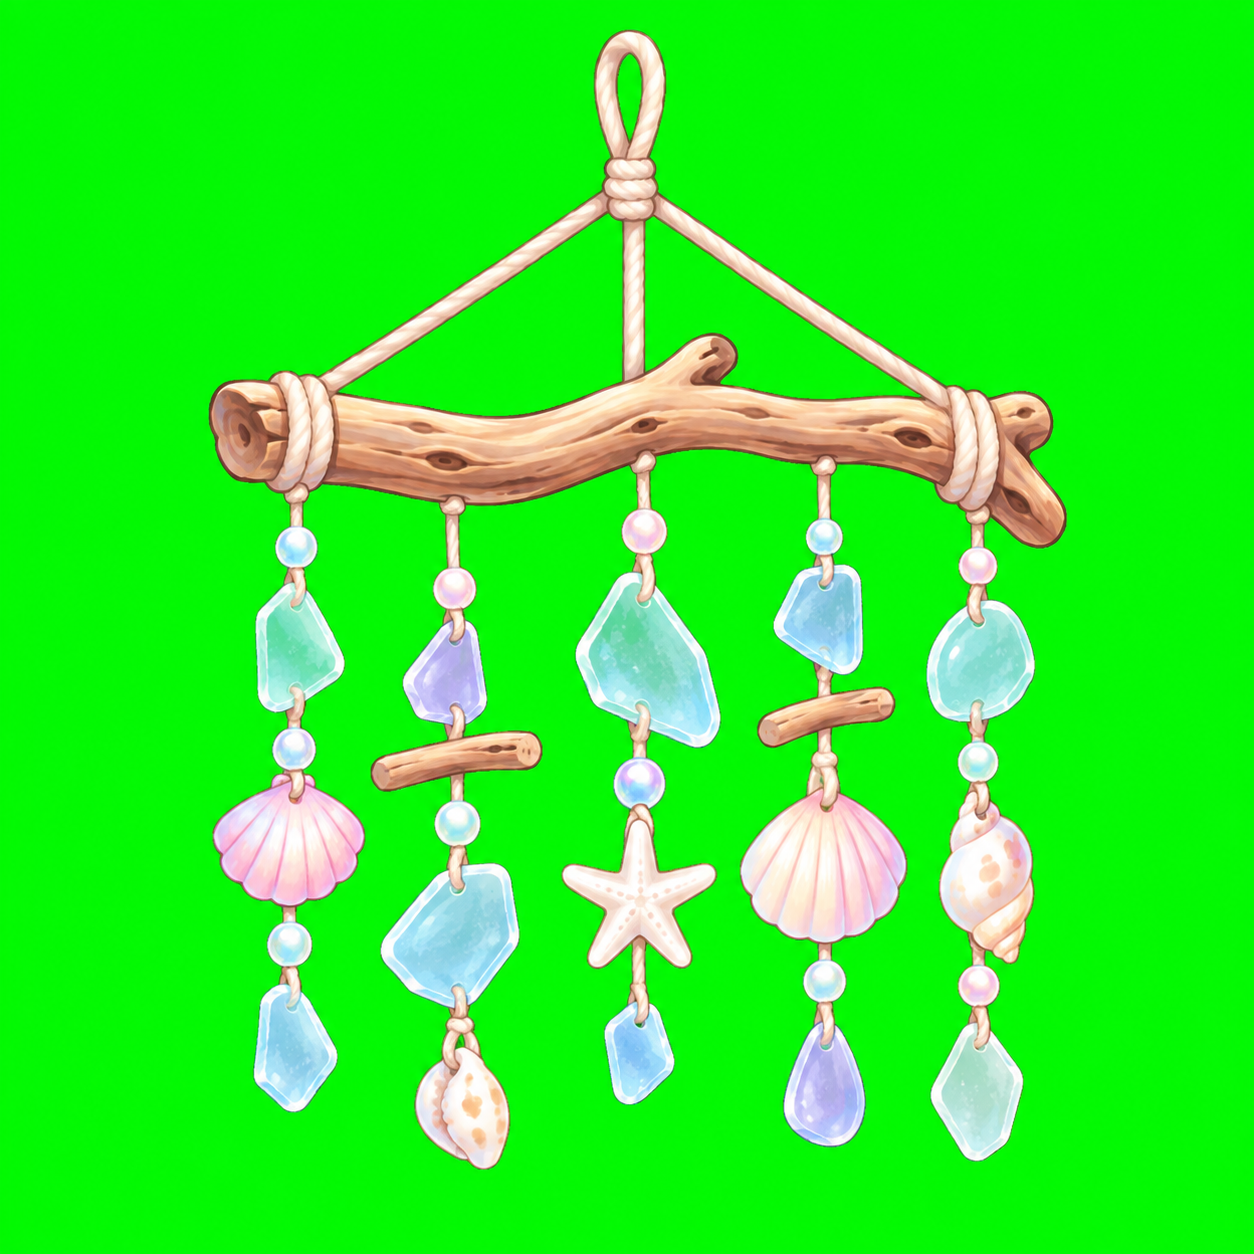
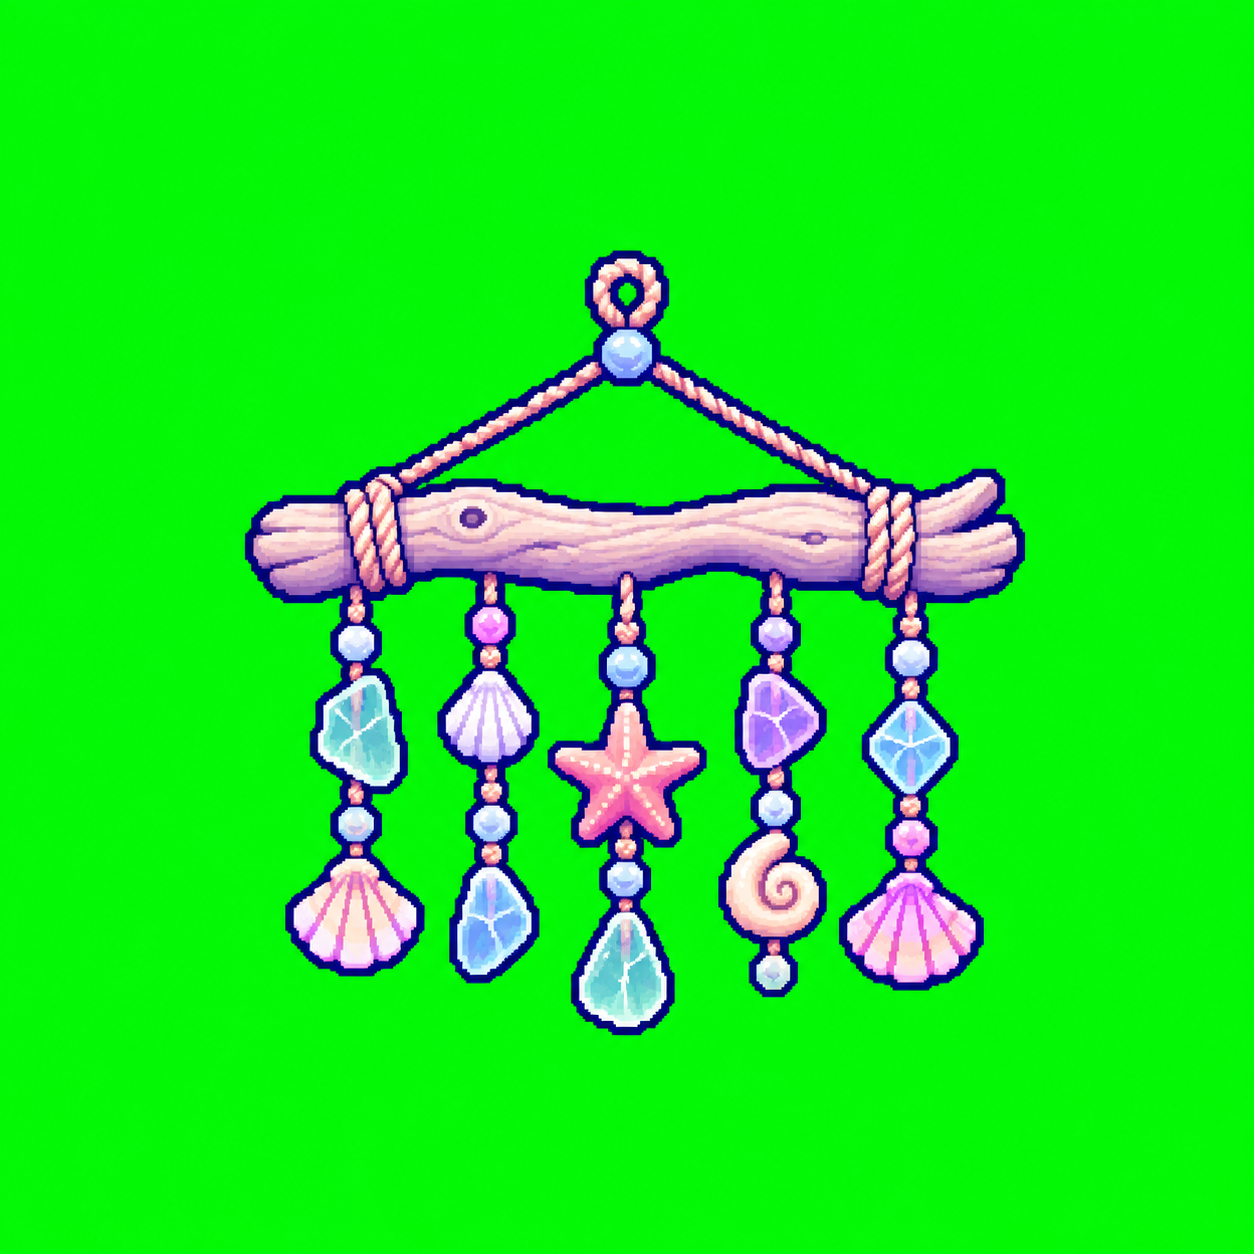
てづくり家具10点を 森と同じタッチの絵に描き直し（開発版）
Claude-Session: https://claude.ai/code/session_01AoJ88BrSyrEsKzo23n7Mg1

Changed region(s): [[0.1555, 0.0, 0.8708, 0.933]]

diff --git a/source/game.html b/source/game.html
@@ -854,7 +854,7 @@ sprImg.src = 'umimi-sprites.png';
 const COS_IMG = {};
 function cosImgFor(cat){ let im=COS_IMG[cat]; if(!im){ im=COS_IMG[cat]=new Image(); im.onload=()=>{ if(S){ renderTray(); if(!$('closet').hidden) renderCloset(); } }; im.src='c_'+cat+'.png'; } return (im.complete && im.naturalWidth) ? im : null; }
 const VIS_SPR = {"res":1.6,"m":{"jelly":{"w":172,"h":172,"a":"c","y":0},"star":{"w":145,"h":132,"a":"b","y":172},"seahorse":{"w":121,"h":180,"a":"c","y":304},"crab":{"w":180,"h":127,"a":"b","y":484},"dolphin":{"w":236,"h":144,"a":"c","y":611},"penguin":{"w":164,"h":147,"a":"b","y":755},"turtle":{"w":212,"h":145,"a":"b","y":902},"octopus":{"w":164,"h":156,"a":"b","y":1047},"puffer":{"w":161,"h":127,"a":"c","y":1203},"otter":{"w":204,"h":156,"a":"c","y":1330}}};
-const FIMG = {m:{"cbench":{"s":"craft","x":0,"y":0,"w":260,"h":137,"rw":130,"rh":68,"tw":110,"th":58},"cbench_f":{"s":"craft","x":0,"y":139,"w":260,"h":124,"rw":130,"rh":62,"tw":110,"th":52},"ctable":{"s":"craft","x":0,"y":265,"w":220,"h":156,"rw":110,"rh":78,"tw":92,"th":65},"ctable_f":{"s":"craft","x":0,"y":423,"w":220,"h":151,"rw":110,"rh":76,"tw":92,"th":64},"cshelllamp":{"s":"craft","x":0,"y":576,"w":140,"h":141,"rw":70,"rh":70,"tw":62,"th":62},"cshelllamp_f":{"s":"craft","x":0,"y":719,"w":140,"h":142,"rw":70,"rh":71,"tw":62,"th":63},"ccoralpot":{"s":"craft","x":0,"y":863,"w":144,"h":153,"rw":72,"rh":76,"tw":60,"th":63},"ccoralpot_f":{"s":"craft","x":0,"y":1018,"w":144,"h":157,"rw":72,"rh":78,"tw":60,"th":65},"cmobile":{"s":"craft","x":0,"y":1177,"w":160,"h":213,"rw":80,"rh":106,"tw":72,"th":95},"cmobile_f":{"s":"craft","x":0,"y":1392,"w":160,"h":230,"rw":80,"rh":115,"tw":72,"th":104},"bwork":{"s":"craft","x":0,"y":1624,"w":350,"h":336,"rw":175,"rh":168,"tw":175,"th":168},"bsign":{"s":"craft","x":352,"y":0,"w":224,"h":242,"rw":112,"rh":121,"tw":112,"th":121},"bkiln":{"s":"craft","x":352,"y":244,"w":320,"h":250,"rw":160,"rh":125,"tw":160,"th":125},"rug":{"s":"base","x":0,"y":0,"w":340,"h":190,"rw":170,"rh":95,"tw":0,"th":0},"bed":{"s":"base","x":0,"y":192,"w":300,"h":283,"rw":150,"rh":142,"tw":0,"th":0},"lamp":{"s":"base","x":0,"y":477,"w":132,"h":234,"rw":66,"rh":117,"tw":0,"th":0},"cushion":{"s":"base","x":0,"y":713,"w":160,"h":113,"rw":80,"rh":56,"tw":0,"th":0},"plant":{"s":"base","x":0,"y":828,"w":124,"h":153,"rw":62,"rh":76,"tw":0,"th":0},"shelf":{"s":"base","x":0,"y":983,"w":210,"h":332,"rw":105,"rh":166,"tw":0,"th":0},"window":{"s":"base","x":0,"y":1317,"w":270,"h":232,"rw":135,"rh":116,"tw":0,"th":0},"windowday":{"s":"base","x":0,"y":1551,"w":270,"h":232,"rw":135,"rh":116,"tw":0,"th":0},"frame":{"s":"base","x":0,"y":1785,"w":144,"h":148,"rw":72,"rh":74,"tw":0,"th":0},"table":{"s":"base","x":342,"y":0,"w":230,"h":187,"rw":115,"rh":94,"tw":0,"th":0},"shellbed":{"s":"pearl","x":0,"y":0,"w":350,"h":326,"rw":175,"rh":163,"tw":110,"th":102},"shelltable":{"s":"pearl","x":0,"y":328,"w":250,"h":160,"rw":125,"rh":80,"tw":82,"th":52},"shellchair":{"s":"pearl","x":0,"y":490,"w":210,"h":198,"rw":105,"rh":99,"tw":72,"th":68},"bottle":{"s":"pearl","x":0,"y":690,"w":116,"h":136,"rw":58,"rh":68,"tw":42,"th":49},"crystal2":{"s":"pearl","x":0,"y":828,"w":180,"h":164,"rw":90,"rh":82,"tw":62,"th":56},"shellcake":{"s":"pearl","x":0,"y":994,"w":156,"h":161,"rw":78,"rh":80,"tw":54,"th":55},"lanternstand":{"s":"autumn","x":0,"y":0,"w":200,"h":266,"rw":100,"rh":133,"tw":95,"th":126},"stall":{"s":"autumn","x":0,"y":268,"w":400,"h":313,"rw":200,"rh":156,"tw":180,"th":140},"kingyo":{"s":"autumn","x":0,"y":583,"w":380,"h":295,"rw":190,"rh":148,"tw":160,"th":125},"mcushion":{"s":"autumn","x":0,"y":880,"w":230,"h":142,"rw":115,"rh":71,"tw":90,"th":56},"garland":{"s":"autumn","x":0,"y":1024,"w":600,"h":198,"rw":300,"rh":99,"tw":200,"th":66},"chochin":{"s":"autumn","x":0,"y":1224,"w":160,"h":329,"rw":80,"rh":164,"tw":80,"th":164},"omen":{"s":"autumn","x":0,"y":1555,"w":400,"h":349,"rw":200,"rh":174,"tw":180,"th":157},"acorn":{"s":"autumn","x":602,"y":0,"w":120,"h":103,"rw":60,"rh":52,"tw":42,"th":36},"yakiimo":{"s":"autumn","x":602,"y":105,"w":140,"h":90,"rw":70,"rh":45,"tw":48,"th":31},"bridge":{"s":"autumn","x":602,"y":197,"w":460,"h":206,"rw":230,"rh":103,"tw":200,"th":90},"pumpkinstand":{"s":"halloween","x":0,"y":0,"w":170,"h":344,"rw":85,"rh":172,"tw":80,"th":162},"hrug":{"s":"halloween","x":0,"y":346,"w":340,"h":200,"rw":170,"rh":100,"tw":120,"th":71},"ghostcushion":{"s":"halloween","x":0,"y":548,"w":170,"h":149,"rw":85,"rh":74,"tw":72,"th":63},"hframe":{"s":"halloween","x":0,"y":699,"w":160,"h":187,"rw":80,"rh":94,"tw":0,"th":0},"candytable":{"s":"halloween","x":0,"y":888,"w":210,"h":244,"rw":105,"rh":122,"tw":82,"th":95},"hshelf":{"s":"halloween","x":0,"y":1134,"w":230,"h":309,"rw":115,"rh":154,"tw":100,"th":134},"jbox_0":{"s":"halloween","x":0,"y":1445,"w":170,"h":170,"rw":85,"rh":85,"tw":74,"th":74},"jbox_1":{"s":"halloween","x":0,"y":1617,"w":170,"h":170,"rw":85,"rh":85,"tw":74,"th":74},"jbox_2":{"s":"halloween","x":0,"y":1789,"w":170,"h":170,"rw":85,"rh":85,"tw":74,"th":74},"jbox_3":{"s":"halloween","x":342,"y":0,"w":170,"h":170,"rw":85,"rh":85,"tw":74,"th":74},"chandelier_0":{"s":"halloween","x":342,"y":172,"w":260,"h":375,"rw":130,"rh":188,"tw":0,"th":0},"chandelier_1":{"s":"halloween","x":342,"y":549,"w":260,"h":375,"rw":130,"rh":188,"tw":0,"th":0},"chandelier_2":{"s":"halloween","x":342,"y":926,"w":260,"h":375,"rw":130,"rh":188,"tw":0,"th":0},"jbox":{"s":"halloween","x":0,"y":1445,"w":170,"h":170,"rw":85,"rh":85,"tw":74,"th":74},"chandelier":{"s":"halloween","x":342,"y":172,"w":260,"h":375,"rw":130,"rh":188,"tw":0,"th":0},"pdresser":{"s":"pearl","x":0,"y":1157,"w":250,"h":279,"rw":125,"rh":140,"tw":84,"th":94},"pdresser2":{"s":"pearl","x":0,"y":1438,"w":240,"h":312,"rw":120,"rh":156,"tw":82,"th":107},"pnight":{"s":"pearl","x":0,"y":1752,"w":156,"h":203,"rw":78,"rh":102,"tw":56,"th":73},"psofa":{"s":"pearl","x":352,"y":0,"w":370,"h":241,"rw":185,"rh":120,"tw":124,"th":80},"pbox":{"s":"pearl","x":352,"y":243,"w":100,"h":83,"rw":50,"rh":42,"tw":36,"th":30},"bcoral":{"s":"craft","x":352,"y":496,"w":260,"h":236,"rw":130,"rh":118,"tw":130,"th":118},"frock1":{"s":"forest","x":0,"y":0,"w":400,"h":255,"rw":200,"rh":128,"tw":200,"th":128},"frock2":{"s":"forest","x":0,"y":257,"w":340,"h":290,"rw":170,"rh":145,"tw":170,"th":145},"frock3":{"s":"forest","x":0,"y":549,"w":300,"h":162,"rw":150,"rh":81,"tw":150,"th":81},"frock4":{"s":"forest","x":0,"y":713,"w":360,"h":181,"rw":180,"rh":90,"tw":180,"th":90},"frock5":{"s":"forest","x":0,"y":896,"w":320,"h":249,"rw":160,"rh":124,"tw":160,"th":124},"frock6":{"s":"forest","x":0,"y":1147,"w":400,"h":190,"rw":200,"rh":95,"tw":200,"th":95},"fkelp1":{"s":"forest","x":0,"y":1339,"w":160,"h":234,"rw":80,"rh":117,"tw":80,"th":117},"fkelp2":{"s":"forest","x":0,"y":1575,"w":172,"h":254,"rw":86,"rh":127,"tw":86,"th":127},"m_wood":{"s":"forest","x":0,"y":1831,"w":128,"h":120,"rw":64,"rh":60,"tw":34,"th":32},"m_shell":{"s":"forest","x":402,"y":0,"w":112,"h":96,"rw":56,"rh":48,"tw":25,"th":21},"m_coral":{"s":"forest","x":402,"y":98,"w":96,"h":116,"rw":48,"rh":58,"tw":20,"th":24},"m_glass":{"s":"forest","x":402,"y":216,"w":96,"h":94,"rw":48,"rh":47,"tw":22,"th":22},"m_sand":{"s":"forest","x":402,"y":312,"w":128,"h":76,"rw":64,"rh":38,"tw":30,"th":18},"m_pearl":{"s":"forest","x":402,"y":390,"w":80,"h":78,"rw":40,"rh":39,"tw":18,"th":18},"bbasket":{"s":"forest","x":402,"y":470,"w":280,"h":286,"rw":140,"rh":143,"tw":70,"th":72}}};
+const FIMG = {m:{"cbench":{"s":"craft","x":0,"y":0,"w":260,"h":130,"rw":130,"rh":65,"tw":110,"th":55},"cbench_f":{"s":"craft","x":0,"y":132,"w":260,"h":130,"rw":130,"rh":65,"tw":110,"th":55},"ctable":{"s":"craft","x":0,"y":264,"w":220,"h":184,"rw":110,"rh":92,"tw":92,"th":77},"ctable_f":{"s":"craft","x":0,"y":450,"w":220,"h":184,"rw":110,"rh":92,"tw":92,"th":77},"cshelllamp":{"s":"craft","x":0,"y":636,"w":140,"h":152,"rw":70,"rh":76,"tw":62,"th":67},"cshelllamp_f":{"s":"craft","x":0,"y":790,"w":140,"h":153,"rw":70,"rh":76,"tw":62,"th":67},"ccoralpot":{"s":"craft","x":0,"y":945,"w":144,"h":180,"rw":72,"rh":90,"tw":60,"th":75},"ccoralpot_f":{"s":"craft","x":0,"y":1127,"w":144,"h":179,"rw":72,"rh":90,"tw":60,"th":75},"cmobile":{"s":"craft","x":0,"y":1308,"w":160,"h":161,"rw":80,"rh":80,"tw":72,"th":72},"cmobile_f":{"s":"craft","x":0,"y":1471,"w":160,"h":164,"rw":80,"rh":82,"tw":72,"th":74},"bwork":{"s":"craft","x":0,"y":1637,"w":350,"h":336,"rw":175,"rh":168,"tw":175,"th":168},"bsign":{"s":"craft","x":352,"y":0,"w":224,"h":242,"rw":112,"rh":121,"tw":112,"th":121},"bkiln":{"s":"craft","x":352,"y":244,"w":320,"h":250,"rw":160,"rh":125,"tw":160,"th":125},"rug":{"s":"base","x":0,"y":0,"w":340,"h":190,"rw":170,"rh":95,"tw":0,"th":0},"bed":{"s":"base","x":0,"y":192,"w":300,"h":283,"rw":150,"rh":142,"tw":0,"th":0},"lamp":{"s":"base","x":0,"y":477,"w":132,"h":234,"rw":66,"rh":117,"tw":0,"th":0},"cushion":{"s":"base","x":0,"y":713,"w":160,"h":113,"rw":80,"rh":56,"tw":0,"th":0},"plant":{"s":"base","x":0,"y":828,"w":124,"h":153,"rw":62,"rh":76,"tw":0,"th":0},"shelf":{"s":"base","x":0,"y":983,"w":210,"h":332,"rw":105,"rh":166,"tw":0,"th":0},"window":{"s":"base","x":0,"y":1317,"w":270,"h":232,"rw":135,"rh":116,"tw":0,"th":0},"windowday":{"s":"base","x":0,"y":1551,"w":270,"h":232,"rw":135,"rh":116,"tw":0,"th":0},"frame":{"s":"base","x":0,"y":1785,"w":144,"h":148,"rw":72,"rh":74,"tw":0,"th":0},"table":{"s":"base","x":342,"y":0,"w":230,"h":187,"rw":115,"rh":94,"tw":0,"th":0},"shellbed":{"s":"pearl","x":0,"y":0,"w":350,"h":326,"rw":175,"rh":163,"tw":110,"th":102},"shelltable":{"s":"pearl","x":0,"y":328,"w":250,"h":160,"rw":125,"rh":80,"tw":82,"th":52},"shellchair":{"s":"pearl","x":0,"y":490,"w":210,"h":198,"rw":105,"rh":99,"tw":72,"th":68},"bottle":{"s":"pearl","x":0,"y":690,"w":116,"h":136,"rw":58,"rh":68,"tw":42,"th":49},"crystal2":{"s":"pearl","x":0,"y":828,"w":180,"h":164,"rw":90,"rh":82,"tw":62,"th":56},"shellcake":{"s":"pearl","x":0,"y":994,"w":156,"h":161,"rw":78,"rh":80,"tw":54,"th":55},"lanternstand":{"s":"autumn","x":0,"y":0,"w":200,"h":266,"rw":100,"rh":133,"tw":95,"th":126},"stall":{"s":"autumn","x":0,"y":268,"w":400,"h":313,"rw":200,"rh":156,"tw":180,"th":140},"kingyo":{"s":"autumn","x":0,"y":583,"w":380,"h":295,"rw":190,"rh":148,"tw":160,"th":125},"mcushion":{"s":"autumn","x":0,"y":880,"w":230,"h":142,"rw":115,"rh":71,"tw":90,"th":56},"garland":{"s":"autumn","x":0,"y":1024,"w":600,"h":198,"rw":300,"rh":99,"tw":200,"th":66},"chochin":{"s":"autumn","x":0,"y":1224,"w":160,"h":329,"rw":80,"rh":164,"tw":80,"th":164},"omen":{"s":"autumn","x":0,"y":1555,"w":400,"h":349,"rw":200,"rh":174,"tw":180,"th":157},"acorn":{"s":"autumn","x":602,"y":0,"w":120,"h":103,"rw":60,"rh":52,"tw":42,"th":36},"yakiimo":{"s":"autumn","x":602,"y":105,"w":140,"h":90,"rw":70,"rh":45,"tw":48,"th":31},"bridge":{"s":"autumn","x":602,"y":197,"w":460,"h":206,"rw":230,"rh":103,"tw":200,"th":90},"pumpkinstand":{"s":"halloween","x":0,"y":0,"w":170,"h":344,"rw":85,"rh":172,"tw":80,"th":162},"hrug":{"s":"halloween","x":0,"y":346,"w":340,"h":200,"rw":170,"rh":100,"tw":120,"th":71},"ghostcushion":{"s":"halloween","x":0,"y":548,"w":170,"h":149,"rw":85,"rh":74,"tw":72,"th":63},"hframe":{"s":"halloween","x":0,"y":699,"w":160,"h":187,"rw":80,"rh":94,"tw":0,"th":0},"candytable":{"s":"halloween","x":0,"y":888,"w":210,"h":244,"rw":105,"rh":122,"tw":82,"th":95},"hshelf":{"s":"halloween","x":0,"y":1134,"w":230,"h":309,"rw":115,"rh":154,"tw":100,"th":134},"jbox_0":{"s":"halloween","x":0,"y":1445,"w":170,"h":170,"rw":85,"rh":85,"tw":74,"th":74},"jbox_1":{"s":"halloween","x":0,"y":1617,"w":170,"h":170,"rw":85,"rh":85,"tw":74,"th":74},"jbox_2":{"s":"halloween","x":0,"y":1789,"w":170,"h":170,"rw":85,"rh":85,"tw":74,"th":74},"jbox_3":{"s":"halloween","x":342,"y":0,"w":170,"h":170,"rw":85,"rh":85,"tw":74,"th":74},"chandelier_0":{"s":"halloween","x":342,"y":172,"w":260,"h":375,"rw":130,"rh":188,"tw":0,"th":0},"chandelier_1":{"s":"halloween","x":342,"y":549,"w":260,"h":375,"rw":130,"rh":188,"tw":0,"th":0},"chandelier_2":{"s":"halloween","x":342,"y":926,"w":260,"h":375,"rw":130,"rh":188,"tw":0,"th":0},"jbox":{"s":"halloween","x":0,"y":1445,"w":170,"h":170,"rw":85,"rh":85,"tw":74,"th":74},"chandelier":{"s":"halloween","x":342,"y":172,"w":260,"h":375,"rw":130,"rh":188,"tw":0,"th":0},"pdresser":{"s":"pearl","x":0,"y":1157,"w":250,"h":279,"rw":125,"rh":140,"tw":84,"th":94},"pdresser2":{"s":"pearl","x":0,"y":1438,"w":240,"h":312,"rw":120,"rh":156,"tw":82,"th":107},"pnight":{"s":"pearl","x":0,"y":1752,"w":156,"h":203,"rw":78,"rh":102,"tw":56,"th":73},"psofa":{"s":"pearl","x":352,"y":0,"w":370,"h":241,"rw":185,"rh":120,"tw":124,"th":80},"pbox":{"s":"pearl","x":352,"y":243,"w":100,"h":83,"rw":50,"rh":42,"tw":36,"th":30},"bcoral":{"s":"craft","x":352,"y":496,"w":260,"h":236,"rw":130,"rh":118,"tw":130,"th":118},"frock1":{"s":"forest","x":0,"y":0,"w":400,"h":255,"rw":200,"rh":128,"tw":200,"th":128},"frock2":{"s":"forest","x":0,"y":257,"w":340,"h":290,"rw":170,"rh":145,"tw":170,"th":145},"frock3":{"s":"forest","x":0,"y":549,"w":300,"h":162,"rw":150,"rh":81,"tw":150,"th":81},"frock4":{"s":"forest","x":0,"y":713,"w":360,"h":181,"rw":180,"rh":90,"tw":180,"th":90},"frock5":{"s":"forest","x":0,"y":896,"w":320,"h":249,"rw":160,"rh":124,"tw":160,"th":124},"frock6":{"s":"forest","x":0,"y":1147,"w":400,"h":190,"rw":200,"rh":95,"tw":200,"th":95},"fkelp1":{"s":"forest","x":0,"y":1339,"w":160,"h":234,"rw":80,"rh":117,"tw":80,"th":117},"fkelp2":{"s":"forest","x":0,"y":1575,"w":172,"h":254,"rw":86,"rh":127,"tw":86,"th":127},"m_wood":{"s":"forest","x":0,"y":1831,"w":128,"h":120,"rw":64,"rh":60,"tw":34,"th":32},"m_shell":{"s":"forest","x":402,"y":0,"w":112,"h":96,"rw":56,"rh":48,"tw":25,"th":21},"m_coral":{"s":"forest","x":402,"y":98,"w":96,"h":116,"rw":48,"rh":58,"tw":20,"th":24},"m_glass":{"s":"forest","x":402,"y":216,"w":96,"h":94,"rw":48,"rh":47,"tw":22,"th":22},"m_sand":{"s":"forest","x":402,"y":312,"w":128,"h":76,"rw":64,"rh":38,"tw":30,"th":18},"m_pearl":{"s":"forest","x":402,"y":390,"w":80,"h":78,"rw":40,"rh":39,"tw":18,"th":18},"bbasket":{"s":"forest","x":402,"y":470,"w":280,"h":286,"rw":140,"rh":143,"tw":70,"th":72}}};
 const FSHEETS = {};
 function fsheet(n){ let im=FSHEETS[n]; if(!im){ im=FSHEETS[n]=new Image(); im.onload=()=>{ if(S && mode==='decor') renderTray(); if(typeof asobiView!=='undefined' && asobiView==='room' && room && room.edit) renderAsobi(); }; im.src='f_'+n+'.png'; } return (im.complete && im.naturalWidth) ? im : null; }
 function animKey(k,seed){
@@ -4283,11 +4283,11 @@ function drawCraft(c,type,t,ph){
   if(fm && fsheet(fm.s)){
     if(craftBase(type)==='cmobile'){ // 流木の柱から つるす
       const top = fm.th+30, sw = Math.sin(t*1.3+ph)*.06;
-      c.lineCap='round'; c.strokeStyle='#8e6744'; c.lineWidth=8; c.beginPath(); c.moveTo(-fm.tw*.62,0); c.lineTo(-fm.tw*.6,-top-6); c.stroke();
-      c.strokeStyle='#d9b48a'; c.lineWidth=5; c.beginPath(); c.moveTo(-fm.tw*.62,0); c.lineTo(-fm.tw*.6,-top-6); c.stroke();
-      c.strokeStyle='#8e6744'; c.lineWidth=6; c.beginPath(); c.moveTo(-fm.tw*.62,-top); c.quadraticCurveTo(-fm.tw*.2,-top-8,4,-top-2); c.stroke();
-      c.strokeStyle='#d9b48a'; c.lineWidth=3.5; c.beginPath(); c.moveTo(-fm.tw*.62,-top); c.quadraticCurveTo(-fm.tw*.2,-top-8,4,-top-2); c.stroke();
-      c.fillStyle='#d9c3a4'; c.beginPath(); c.ellipse(-fm.tw*.62,-1,12,4,0,0,TAU); c.fill();
+      c.lineCap='round'; c.strokeStyle='#3a3a86'; c.lineWidth=8; c.beginPath(); c.moveTo(-fm.tw*.62,0); c.lineTo(-fm.tw*.6,-top-6); c.stroke();
+      c.strokeStyle='#ddd0e8'; c.lineWidth=5; c.beginPath(); c.moveTo(-fm.tw*.62,0); c.lineTo(-fm.tw*.6,-top-6); c.stroke();
+      c.strokeStyle='#3a3a86'; c.lineWidth=6; c.beginPath(); c.moveTo(-fm.tw*.62,-top); c.quadraticCurveTo(-fm.tw*.2,-top-8,4,-top-2); c.stroke();
+      c.strokeStyle='#ddd0e8'; c.lineWidth=3.5; c.beginPath(); c.moveTo(-fm.tw*.62,-top); c.quadraticCurveTo(-fm.tw*.2,-top-8,4,-top-2); c.stroke();
+      c.fillStyle='#cbbfdc'; c.beginPath(); c.ellipse(-fm.tw*.62,-1,12,4,0,0,TAU); c.fill();
       c.save(); c.translate(0,-top); c.rotate(sw); c.translate(0,fm.th+2); drawFImg(c,type,fm.tw,fm.th,ph); c.restore();
       return; }
     drawFImg(c,type,fm.tw,fm.th,ph); return; }

diff --git a/CLAUDE.md b/CLAUDE.md
@@ -83,6 +83,7 @@
   - そざいの絵とかごは ピッちゃん作（f_forest.png の `m_<そざい>` と `bbasket`）。`drawMat()`／`drawBasket()` は絵があれば絵、読み込み前はコードの絵。`matIcon()` は絵が届いたら かき直す
 - こうぼう（ステップ3）：森の さぎょうだいを タップ → パネル `#craftp`（JS で作る。`buildCraftPanel()`）。レシピは `RECIPES` の5種（流木のベンチ／貝がらランプ／流木のミニテーブル／サンゴのうえきばち／海ガラスのモビール。ピッちゃん案）
   - てづくり家具は `DECOR` の `craft:1`。絵はピッちゃん作の `f_craft.png`（ふつう5＋きれい5、こうぼうの作業台 bwork・看板 bsign・貝殻窯 bkiln もこのシート）。シートが読み込まれるまでは `drawCraft()` のコードの絵で代わりに描く。モビールは吊るす物なので、流木の柱をコードで描いて つるしている。`FINE_RATE`=15% で「きれいにできた」版＝キー`_f`（貝が1こ多い等、みためだけ）。もちものは `S.crafted`、つくった回数 `S.craftN`
+  - 2026-10-06 に10点とも 森と同じタッチ（白っぽい流木・紺のふち）の絵に描き直し（元は src/c*_old.png）。モビールをつるす柱も 同じ色にした
   - 置き場所：いつもの海の「かざる」→「てづくり」タブ（もちものが あるときだけ出る）。置くと1つへり、しまうと もどる（かけらは使わない）。ミニテーブルは `SURF` なので小物がのる
   - 方針：ふつうの家具＝完成品／てづくり＝そざい感のある手作り／将来のプレミア家具＝専用アニメ・特別な反応
 - たんけん（ステップ4）：森のトレイの「🧭たんけん」→ パネル `#explp`（`buildExplPanel()`）。おでかけ組（最大3）が いっしょに出かける。状態は `S.expl`（trip/found/runs/xp/pals/log/cHint）
